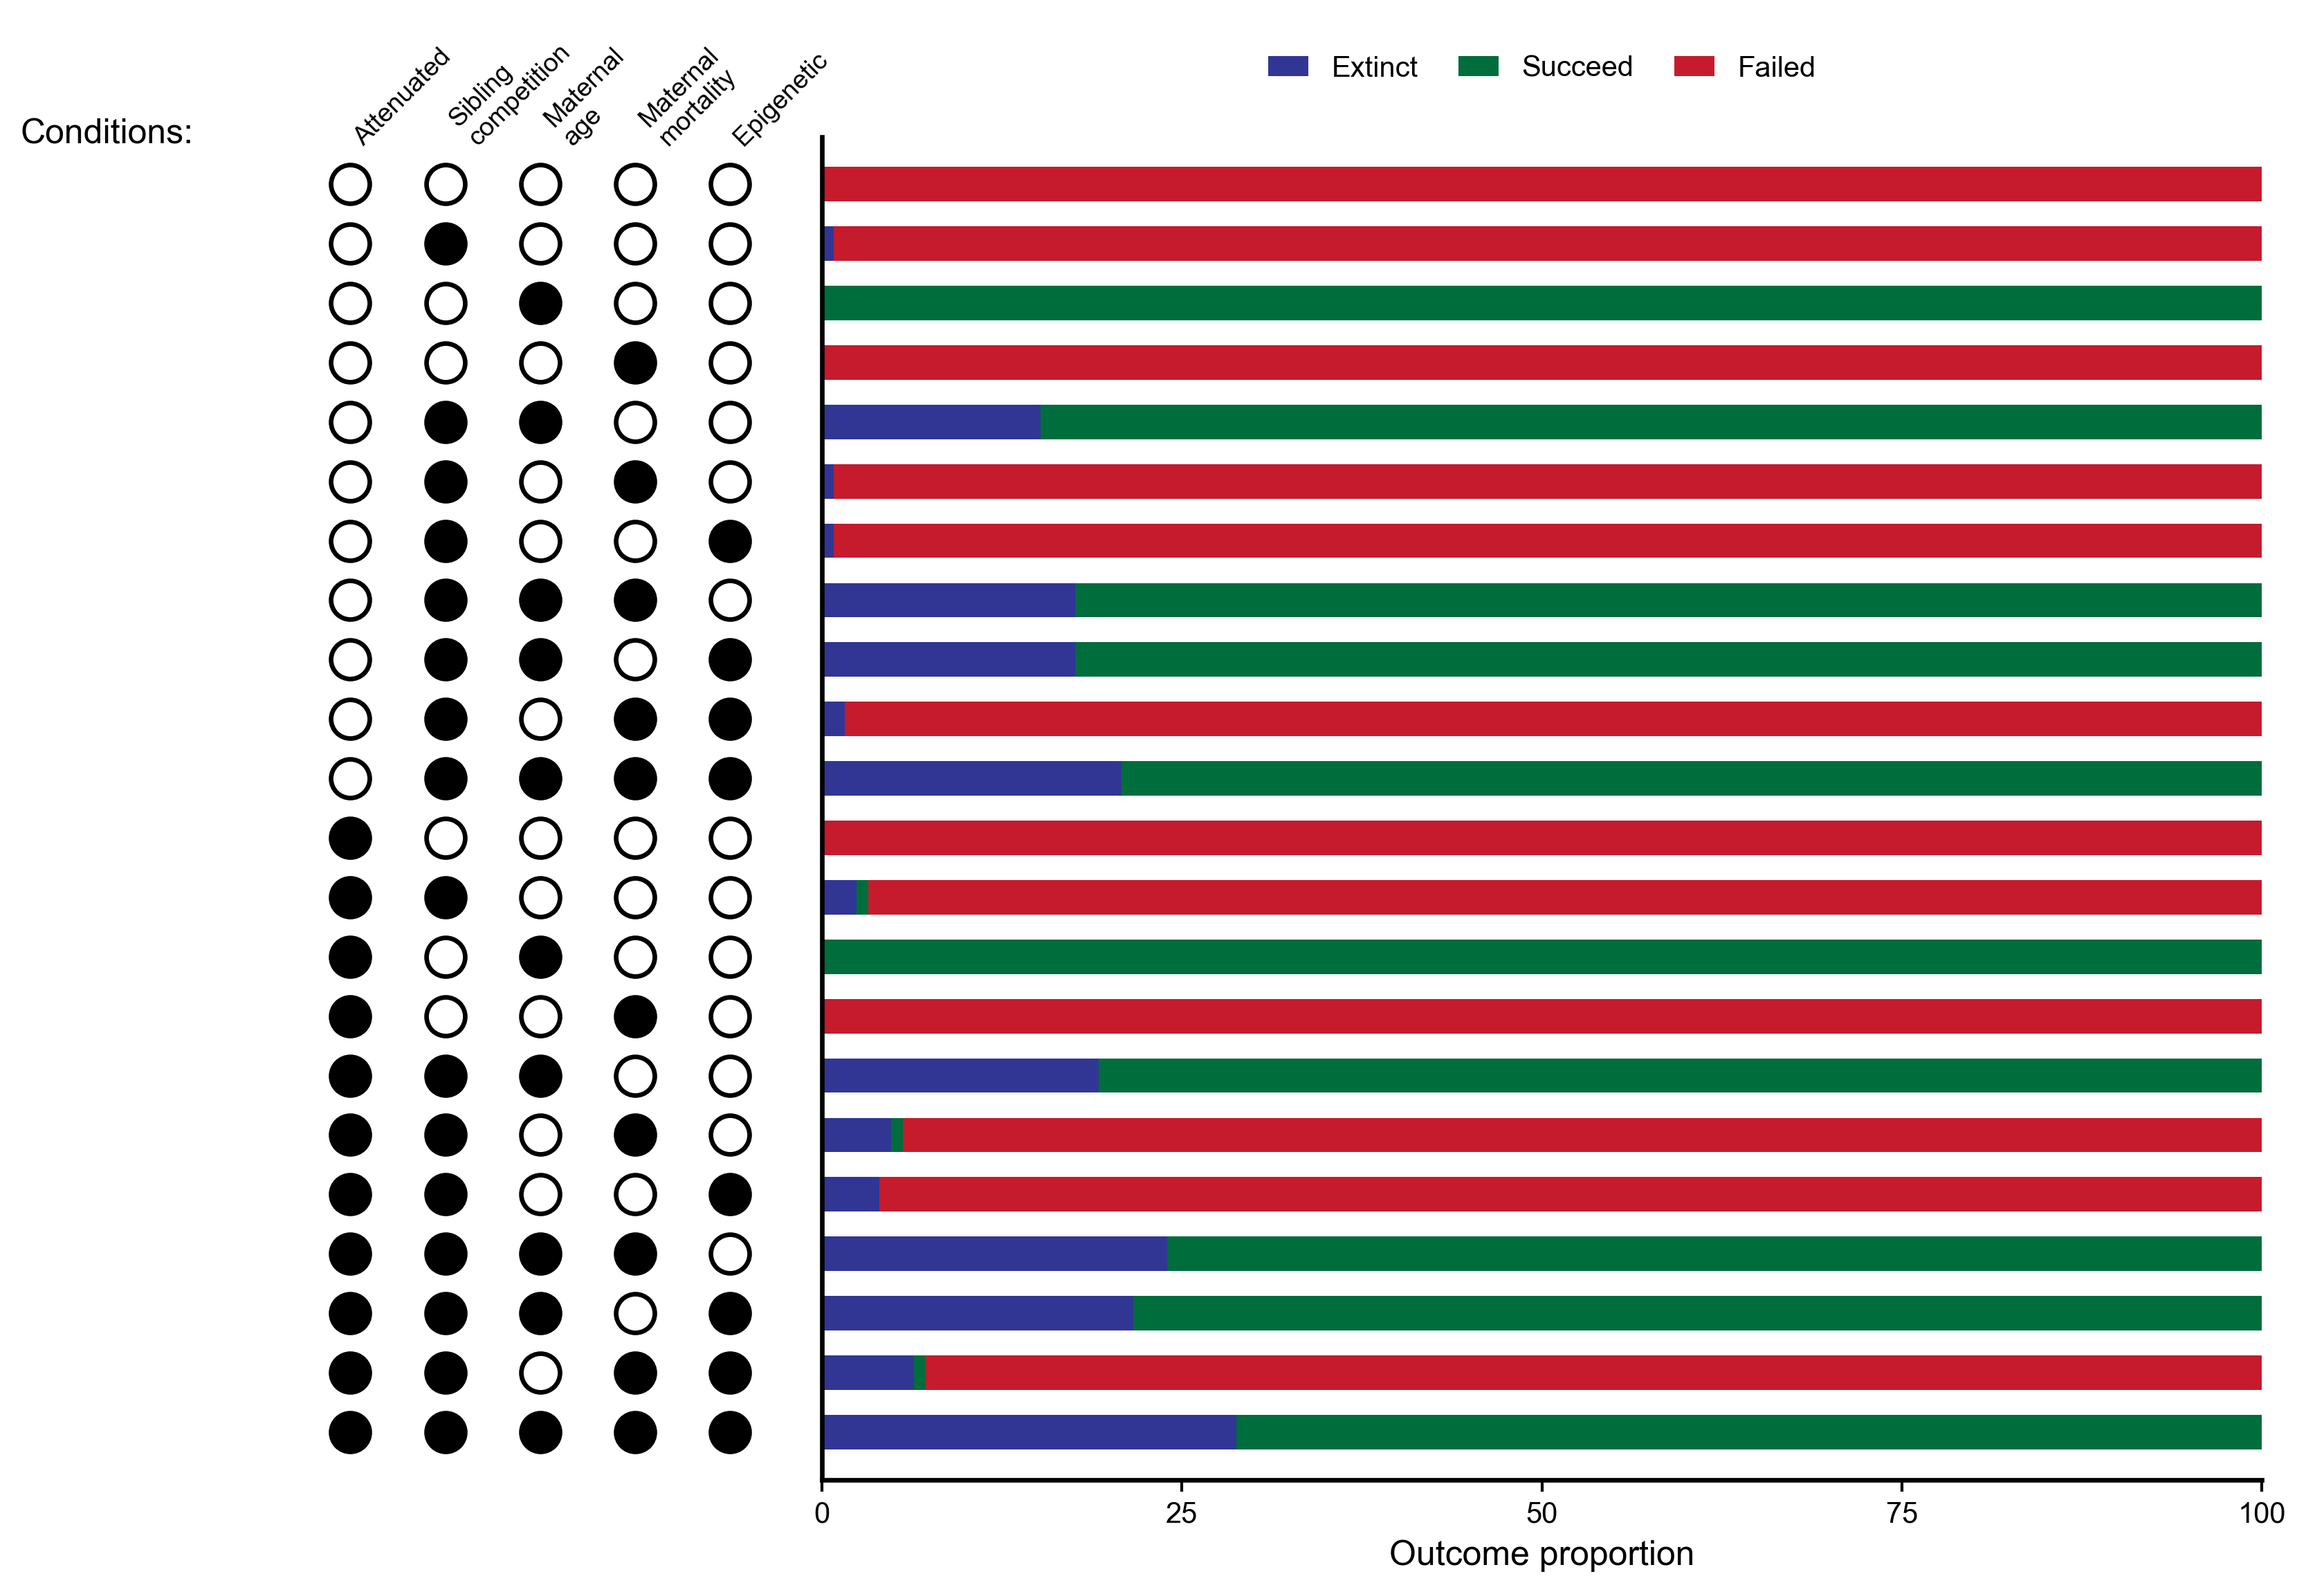
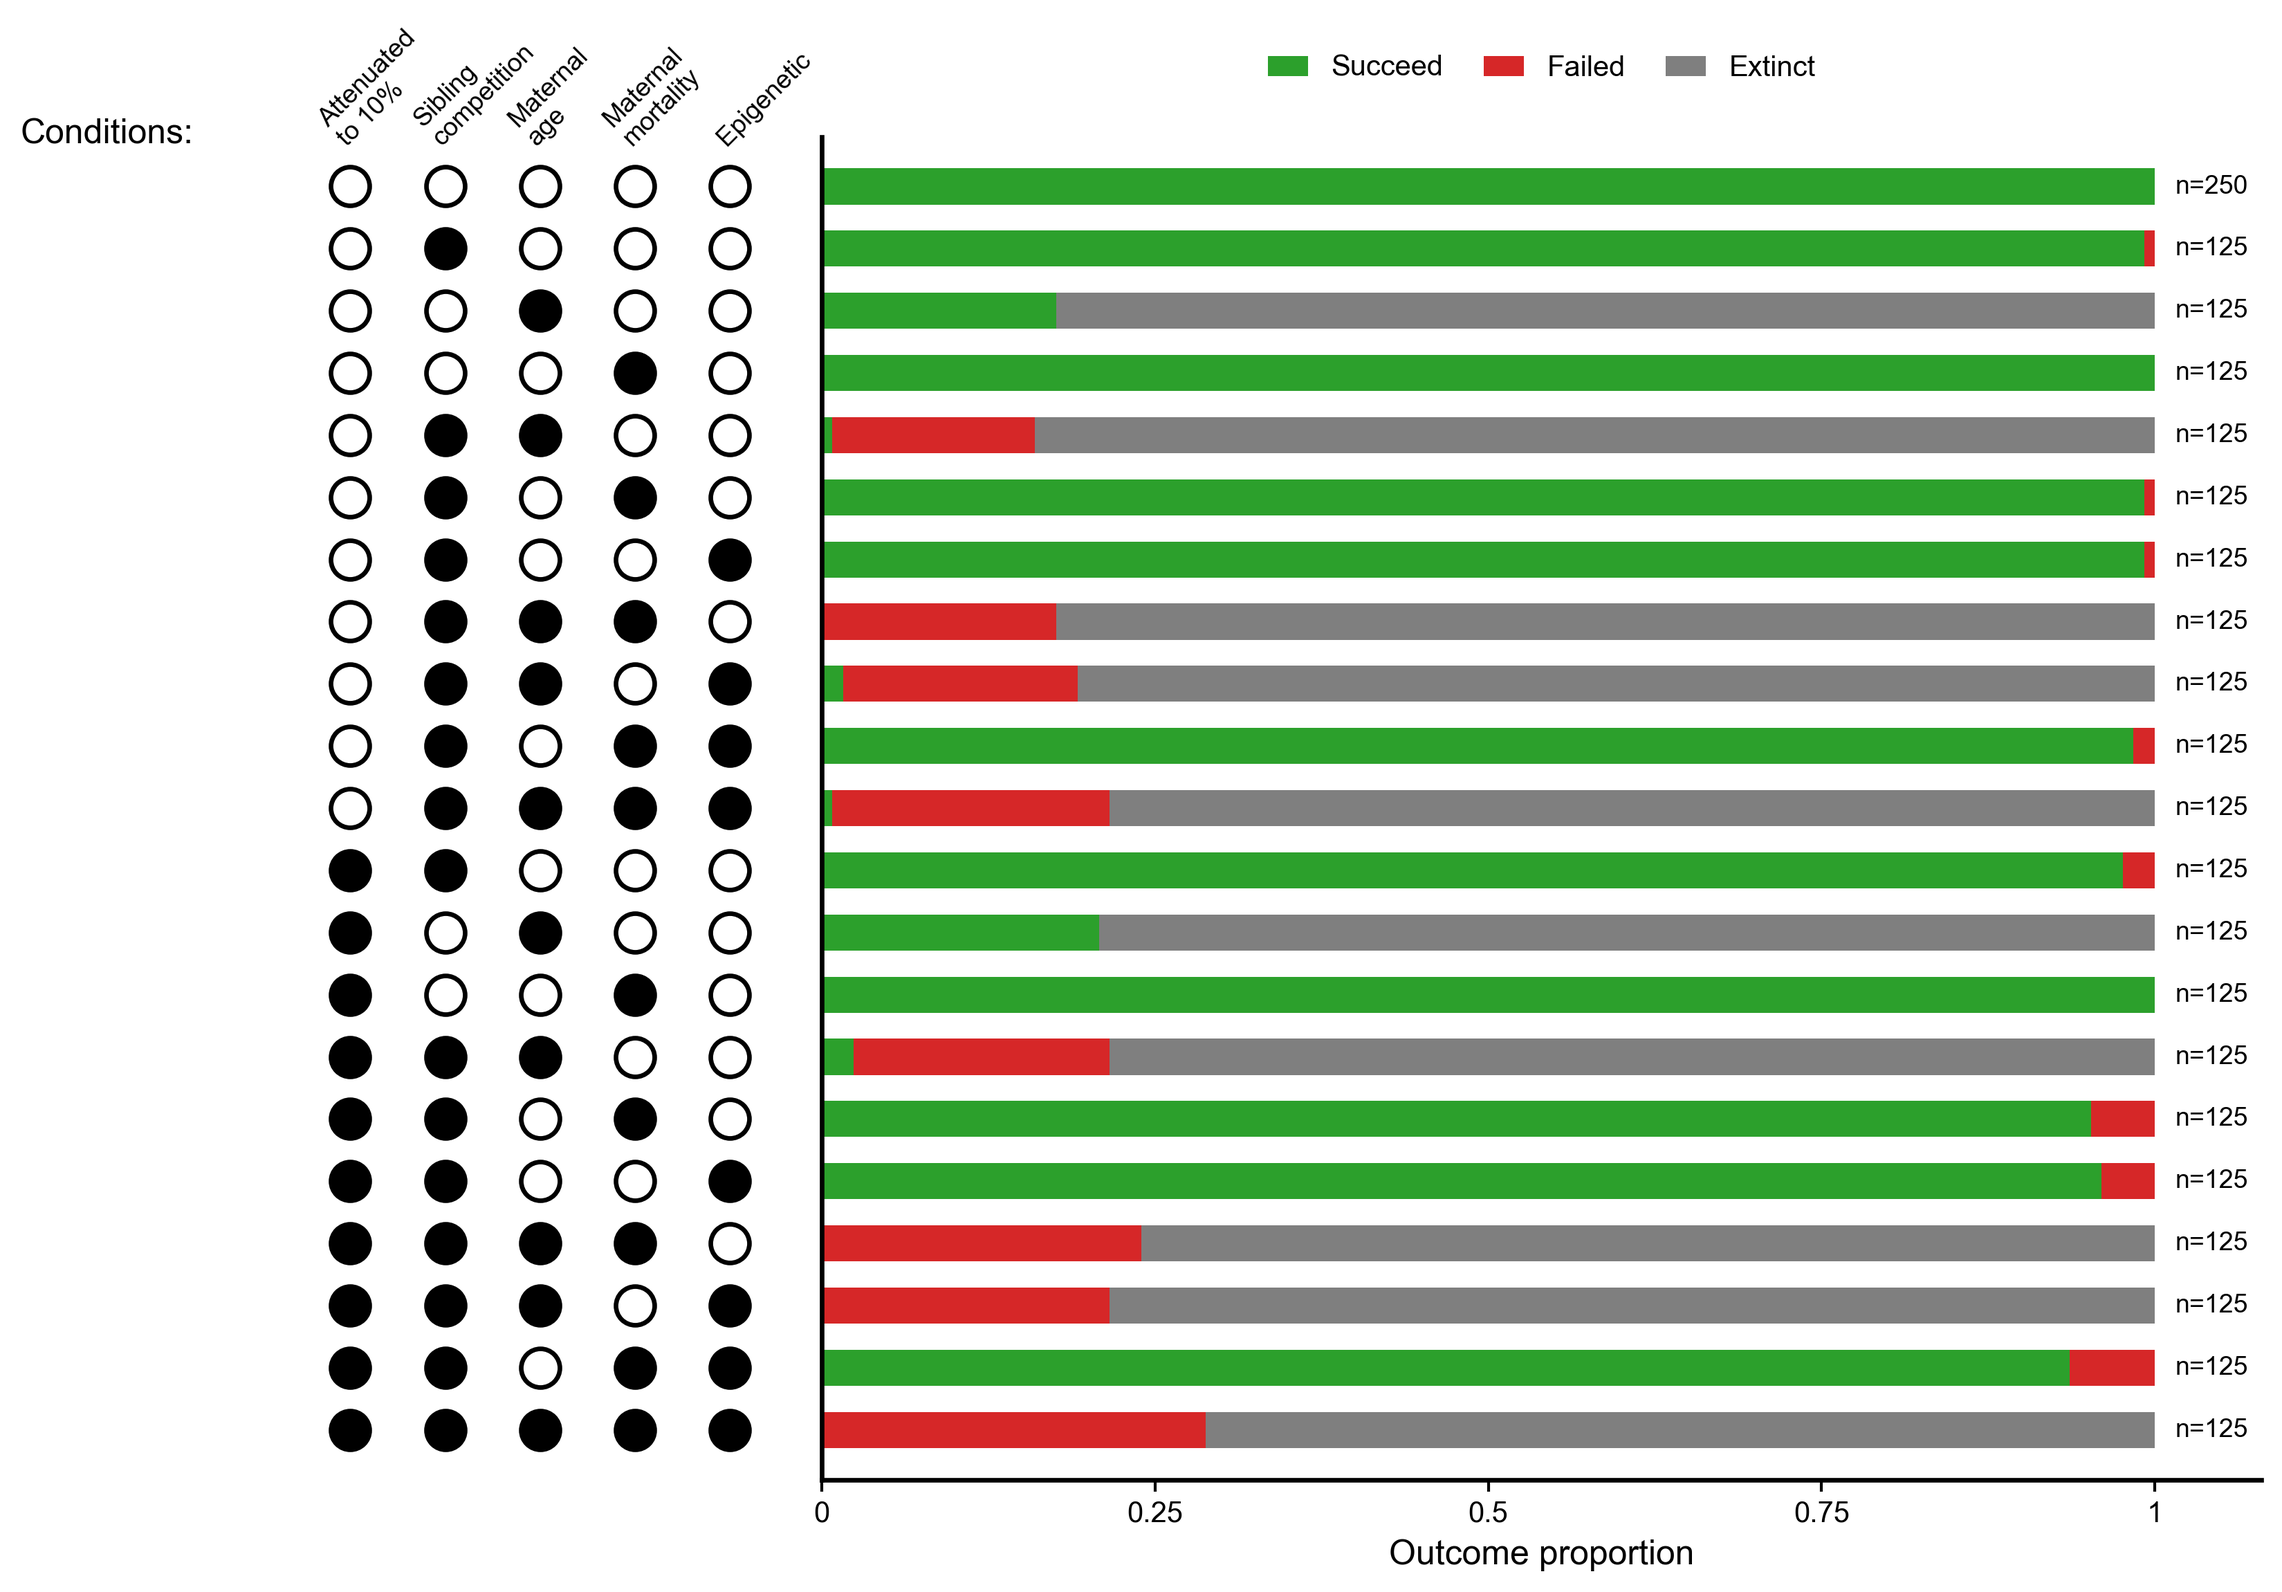
Update vertex 25 outcome plot definitions and styling

diff --git a/plot_vertex_25_condition_outcomes.py b/plot_vertex_25_condition_outcomes.py
@@ -11,25 +11,25 @@ import numpy as np
 import pandas as pd
 
 
-ATTENUATED = [0, 0, 0, 0, 0, 0, 0, 0, 0, 0, 0, 1, 1, 1, 1, 1, 1, 1, 1, 1, 1, 1]
-SIB_COMP = [0, 1, 0, 0, 1, 1, 1, 1, 1, 1, 1, 0, 1, 0, 0, 1, 1, 1, 1, 1, 1, 1]
-MAT_AGE = [0, 0, 1, 0, 1, 0, 0, 1, 1, 0, 1, 0, 0, 1, 0, 1, 0, 0, 1, 1, 0, 1]
-MAT_MORTALITY = [0, 0, 0, 1, 0, 1, 0, 1, 0, 1, 1, 0, 0, 0, 1, 0, 1, 0, 1, 0, 1, 1]
-EPIGENETIC = [0, 0, 0, 0, 0, 0, 1, 0, 1, 1, 1, 0, 0, 0, 0, 0, 0, 1, 0, 1, 1, 1]
+ATTENUATED =    [0, 0, 0, 0, 0, 0, 0, 0, 0, 0, 0, 1, 1, 1, 1, 1, 1, 1, 1, 1, 1]
+SIB_COMP =      [0, 1, 0, 0, 1, 1, 1, 1, 1, 1, 1, 1, 0, 0, 1, 1, 1, 1, 1, 1, 1]
+MAT_AGE =       [0, 0, 1, 0, 1, 0, 0, 1, 1, 0, 1, 0, 1, 0, 1, 0, 0, 1, 1, 0, 1]
+MAT_MORTALITY = [0, 0, 0, 1, 0, 1, 0, 1, 0, 1, 1, 0, 0, 1, 0, 1, 0, 1, 0, 1, 1]
+EPIGENETIC =    [0, 0, 0, 0, 0, 0, 1, 0, 1, 1, 1, 0, 0, 0, 0, 0, 1, 0, 1, 1, 1]
 
 CONDITION_NAMES = [
-    "Attenuated",
+    "Attenuated\nto 10%",
     "Sibling\ncompetition",
     "Maternal\nage",
     "Maternal\nmortality",
     "Epigenetic",
 ]
 
-STATUS_ORDER = ["extinct", "succeed", "failed"]
+STATUS_ORDER = ["succeed", "failed", "extinct"]
 STATUS_COLORS = {
-    "extinct": "#313695",
-    "succeed": "#006d3c",
-    "failed": "#c51b2d",
+    "extinct": "tab:gray",
+    "succeed": "tab:green",
+    "failed": "tab:red",
 }
 
 
@@ -67,6 +67,7 @@ def load_summary(path: Path) -> pd.DataFrame:
         "attenuation_cutoff",
         "if_epi",
         "status",
+        "menopause_age_mean",
     }
     missing = sorted(needed.difference(df.columns))
     if missing:
@@ -98,6 +99,16 @@ def rows_for_condition(
     return rows
 
 
+def classify_outcomes(rows: pd.DataFrame) -> pd.Series:
+    outcomes = pd.Series("failed", index=rows.index, dtype="object")
+    menopause_age = pd.to_numeric(rows["menopause_age_mean"], errors="coerce")
+    not_extinct = rows["status"] != "extinct"
+
+    outcomes.loc[not_extinct & (menopause_age > 41)] = "succeed"
+    outcomes.loc[not_extinct & (menopause_age < 41)] = "extinct"
+    return outcomes
+
+
 def build_plot_table(df: pd.DataFrame) -> pd.DataFrame:
     records = []
     for i, condition in enumerate(
@@ -107,7 +118,7 @@ def build_plot_table(df: pd.DataFrame) -> pd.DataFrame:
         if rows.empty:
             raise ValueError(f"No rows matched requested condition {i}: {condition}")
 
-        counts = rows["status"].value_counts()
+        counts = classify_outcomes(rows).value_counts()
         record = {
             "condition_id": i,
             "n": int(counts.sum()),
@@ -146,13 +157,14 @@ def add_condition_matrix(ax: plt.Axes, plot_df: pd.DataFrame) -> None:
             )
 
     for x, label in zip(x_positions, CONDITION_NAMES):
-        ax.text(
+            ax.text(
             x,
             y_positions[0] + 0.58,
             label,
             ha="left",
             va="bottom",
             rotation=45,
+            rotation_mode="anchor",
             fontsize=9,
         )
 
@@ -186,12 +198,23 @@ def add_outcome_bars(ax: plt.Axes, plot_df: pd.DataFrame) -> None:
         )
         left += values
 
-    ax.set_xlim(0, 1.0)
+    for y, n in zip(y_positions, plot_df["n"]):
+        ax.text(
+            1.015,
+            y,
+            f"n={n}",
+            ha="left",
+            va="center",
+            fontsize=9,
+            clip_on=False,
+        )
+
+    ax.set_xlim(0, 1.08)
     ax.set_ylim(-0.8, len(plot_df) - 0.2)
     ax.set_yticks([])
     ax.set_xlabel("Outcome proportion", fontsize=12)
     ax.set_xticks([0, 0.25, 0.5, 0.75, 1.0])
-    ax.set_xticklabels(["0", "25", "50", "75", "100"])
+    ax.set_xticklabels(["0", "0.25", "0.5", "0.75", "1"])
     ax.spines["top"].set_visible(False)
     ax.spines["right"].set_visible(False)
     ax.spines["left"].set_position(("data", 0))
